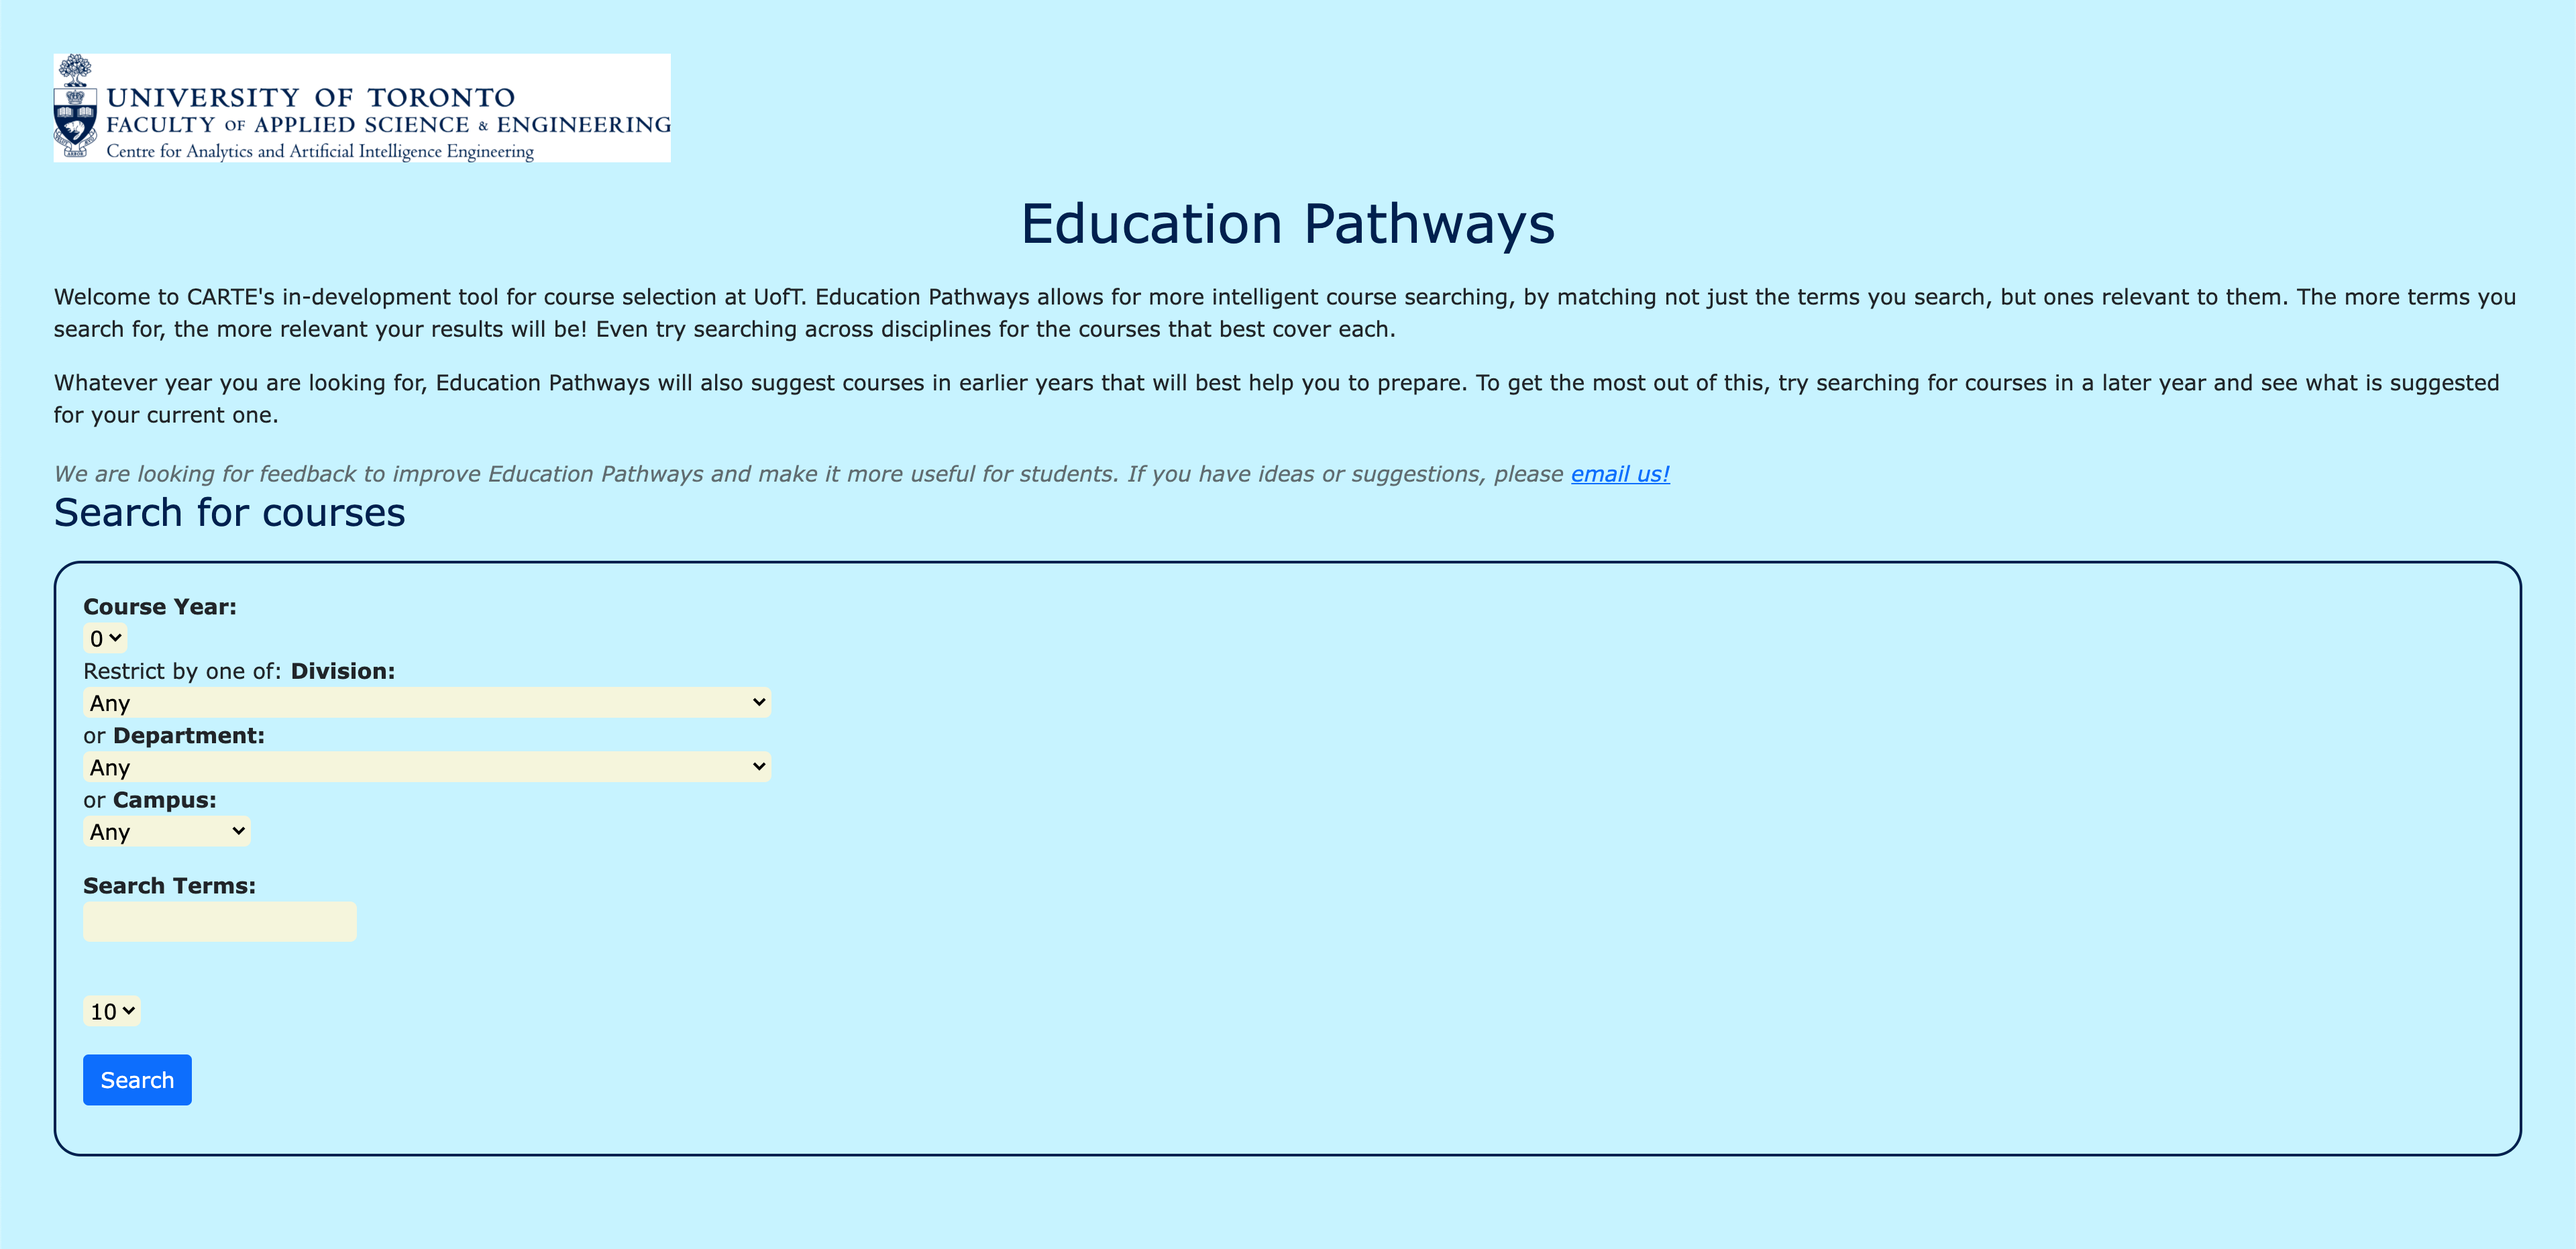
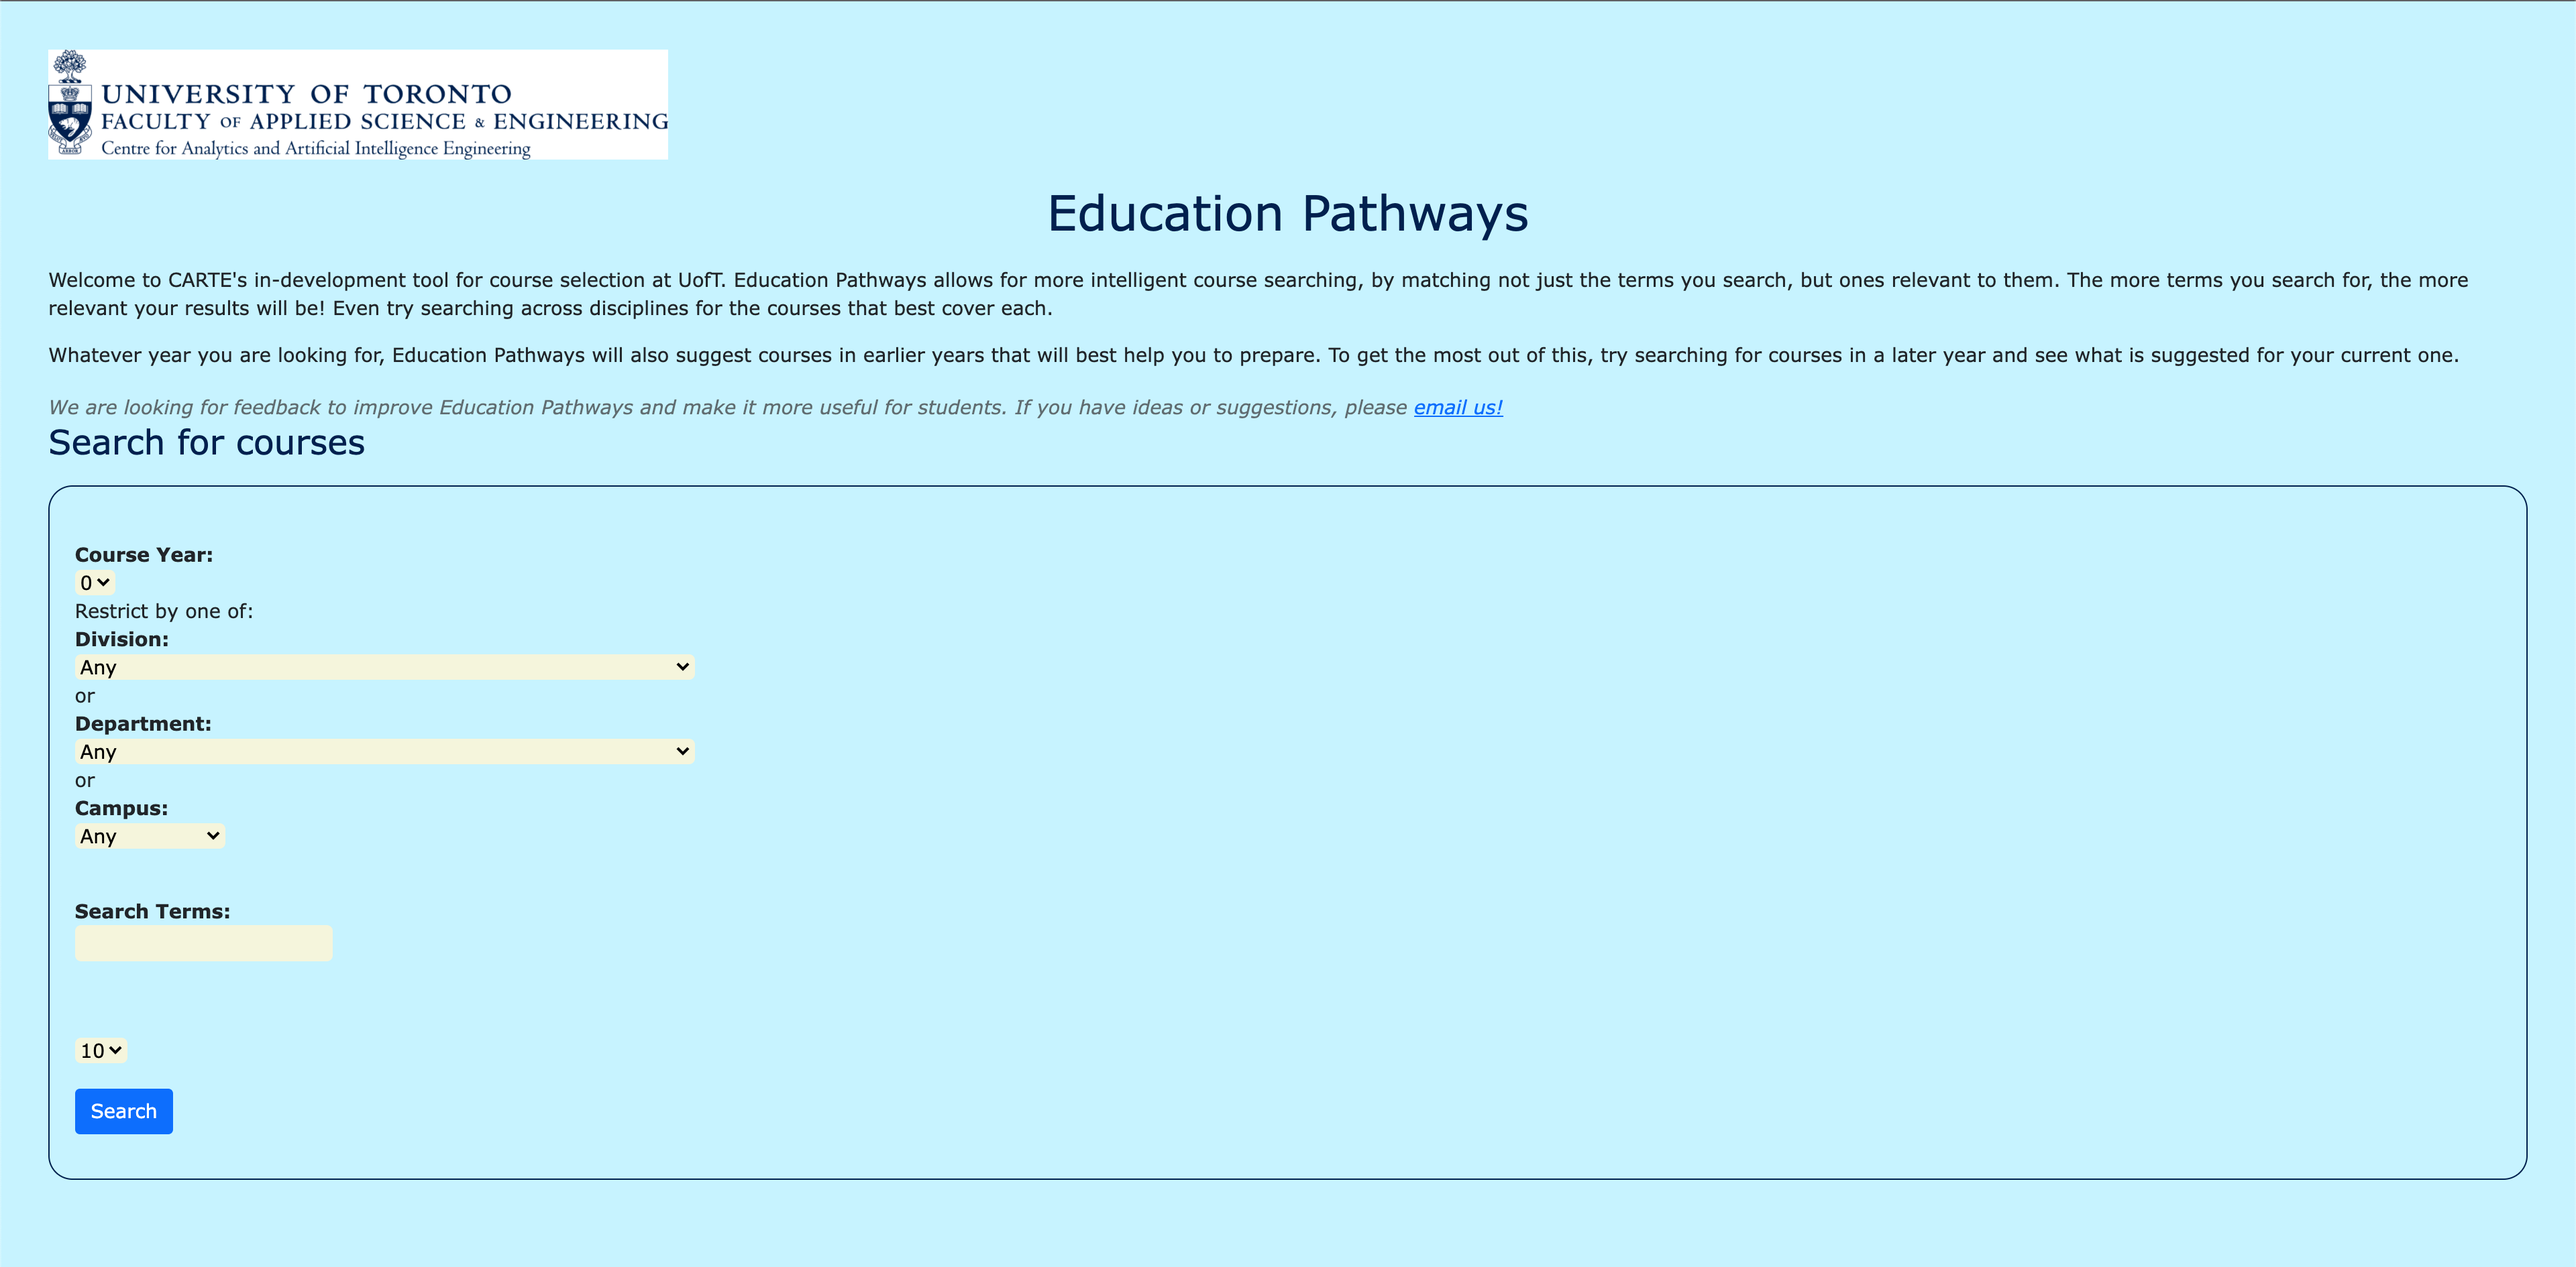
changed the linebreak in the formhelpers file and edit the screenshots

Changed region(s): [[0.0, 0.1557, 0.9688, 0.9345], [0.0, 0.0311, 0.2812, 0.1557]]

diff --git a/templates/_formhelpers.html b/templates/_formhelpers.html
@@ -1,5 +1,5 @@
 <div class="common-page-form-field">
     {% macro render_field(field) %}
-        <b>{{ field.label }}</b><br> {{ field(**kwargs)|safe }}<br>
+        <br><b>{{ field.label }}</b><br> {{ field(**kwargs)|safe }}<br>
     {% endmacro %}
 </div>
